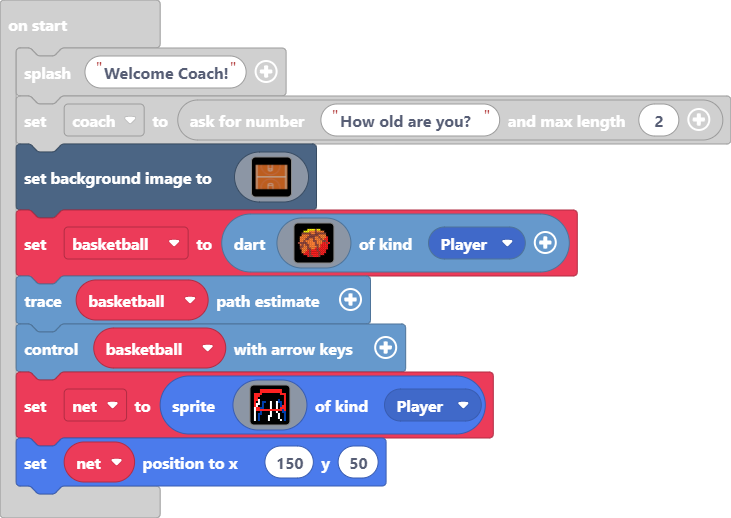
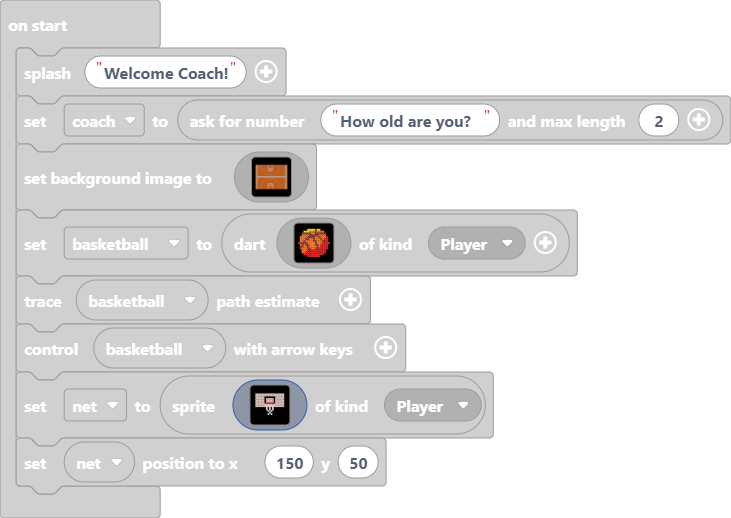
Update main.blocks, main.ts

diff --git a/main.ts b/main.ts
@@ -157,22 +157,22 @@ basketball = darts.create(img`
 basketball.setTrace()
 basketball.controlWithArrowKeys()
 let net = sprites.create(img`
-    . . . 2 2 2 2 2 2 2 2 2 2 2 . . 
-    . . . 2 2 2 2 2 2 2 2 2 2 2 . . 
-    2 2 2 2 . . . . . . . . . 2 2 2 
-    2 2 2 . . . . . . . . . . . . 2 
-    2 2 . . . . . . . . . . . . . 2 
-    2 2 1 . . . . . . . . . 8 . . 2 
-    2 . 1 . 8 8 . . 1 . . 1 8 8 . 2 
-    2 1 1 . 8 . . . 1 . . 1 . 8 . 2 
-    2 1 . . 8 . . . 1 . . 1 . 8 2 2 
-    1 2 2 8 8 . . . 1 . . 1 . 2 2 2 
-    1 2 2 2 2 2 2 2 2 2 2 2 2 2 8 2 
-    1 . . 8 . . . . 1 . . 1 . . 8 8 
-    1 . 8 8 . . . . 1 . . . 1 . . 8 
-    1 . 8 . . . . 1 1 . . . 1 . . 8 
-    1 . 8 . . . . 1 . . . . 1 . . 8 
-    1 . 8 . . . . 1 . . . . . 1 . 8 
+    fffffffffffffffffffff
+    fdddddddddddddddddddf
+    fdddddddddddddddddddf
+    fddddddfffffffddddddf
+    fddddddfdddddfddddddf
+    fddddddfdddddfddddddf
+    fddddddfdddddfddddddf
+    fdddddd2222222ddddddf
+    fdddddd1d1d1d1ddddddf
+    fddddddd1d1d1dddddddf
+    ffffffff1f1f1ffffffff
+    ........1.1.1........
+    .........1.1.........
+    ..........1..........
+    .........1.1.........
+    .....................
     `, SpriteKind.Player)
 net.setPosition(150, 50)
 game.onUpdateInterval(10000, function () {
